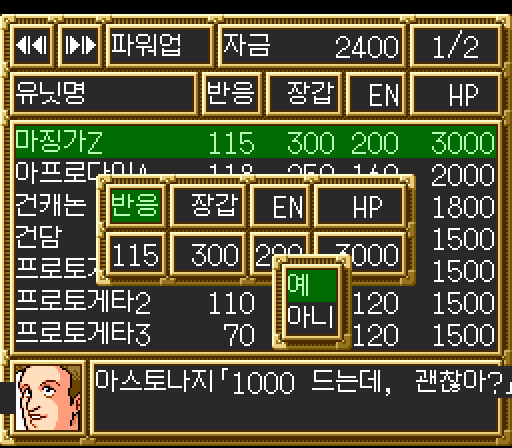
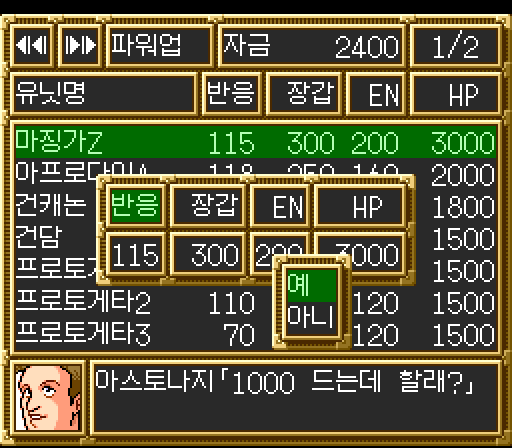
v0.9.2: 파워업 비용 확인 문구 넘침 수정
- '드는데, 괜찮아?' -> '드는데 할래?' (5자리 비용까지 창 안에 들어가게)
- 지도 메뉴·능력 화면·인터미션 다시 점검, 다른 넘침 없음
- 패치 파일·README 해시·스크린샷 갱신

Generated automatically using Claude (AI model).

Changed region(s): [[0.7812, 0.8125, 1.0, 0.9062], [0.0, 0.8438, 0.0312, 0.9375]]

diff --git a/README.ja.md b/README.ja.md
@@ -6,7 +6,7 @@
 
 スーパーファミコン **「第3次スーパーロボット大戦」**（1993）のセリフ、メニュー、ステージタイトル、タイトルロゴまでを韓国語に翻訳した非公式ファンパッチ
 
-[![Release](https://img.shields.io/badge/release-v0.9.1-c0392b?style=flat-square)](https://github.com/game-patch-ko/srw3-ko/releases)
+[![Release](https://img.shields.io/badge/release-v0.9.2-c0392b?style=flat-square)](https://github.com/game-patch-ko/srw3-ko/releases)
 [![Platform](https://img.shields.io/badge/platform-SFC%20%2F%20SNES-6b5b95?style=flat-square)](#-パッチの当て方)
 [![Patch](https://img.shields.io/badge/patch-xdelta%20%C2%B7%20IPS-informational?style=flat-square)](#-パッチの当て方)
 [![ROM](https://img.shields.io/badge/ROM-1.5MB%20%E2%86%92%202MB-2e8b57?style=flat-square)](#-仕組み)
@@ -125,8 +125,8 @@ xdelta3 -d -s "Dai-3-Ji Super Robot Taisen (J).smc" srw3_ko.xdelta srw3_ko.smc
 | 項目 | 値 |
 |---|---|
 | サイズ | 2,097,152バイト（2MB） |
-| CRC32 | `906E0742` |
-| SHA-1 | `e675eb578dc69e16738e1f4683fadb302444835d` |
+| CRC32 | `90A071BB` |
+| SHA-1 | `c22efe75e551e925c59bd72c6cc0461887206aa8` |
 
 できあがった `srw3_ko.smc` をエミュレータでそのまま開きます。
 

diff --git a/README.md b/README.md
@@ -6,7 +6,7 @@
 
 슈퍼 패미컴 **「第3次スーパーロボット大戦」**(1993)의 대사, 메뉴, 스테이지 제목, 타이틀 로고까지 한국어로 옮긴 비공식 팬 패치
 
-[![Release](https://img.shields.io/badge/release-v0.9.1-c0392b?style=flat-square)](https://github.com/game-patch-ko/srw3-ko/releases)
+[![Release](https://img.shields.io/badge/release-v0.9.2-c0392b?style=flat-square)](https://github.com/game-patch-ko/srw3-ko/releases)
 [![Platform](https://img.shields.io/badge/platform-SFC%20%2F%20SNES-6b5b95?style=flat-square)](#-패치-방법)
 [![Patch](https://img.shields.io/badge/patch-xdelta%20%C2%B7%20IPS-informational?style=flat-square)](#-패치-방법)
 [![ROM](https://img.shields.io/badge/ROM-1.5MB%20%E2%86%92%202MB-2e8b57?style=flat-square)](#-어떻게-동작하나요)
@@ -125,8 +125,8 @@ xdelta3 -d -s "Dai-3-Ji Super Robot Taisen (J).smc" srw3_ko.xdelta srw3_ko.smc
 | 항목 | 값 |
 |---|---|
 | 크기 | 2,097,152바이트 (2MB) |
-| CRC32 | `906E0742` |
-| SHA-1 | `e675eb578dc69e16738e1f4683fadb302444835d` |
+| CRC32 | `90A071BB` |
+| SHA-1 | `c22efe75e551e925c59bd72c6cc0461887206aa8` |
 
 만든 `srw3_ko.smc`를 에뮬레이터에서 바로 엽니다.
 
